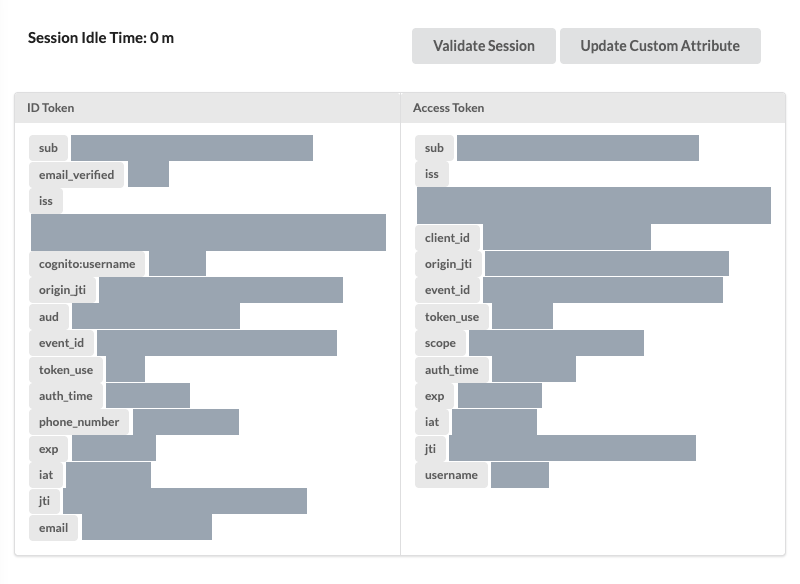
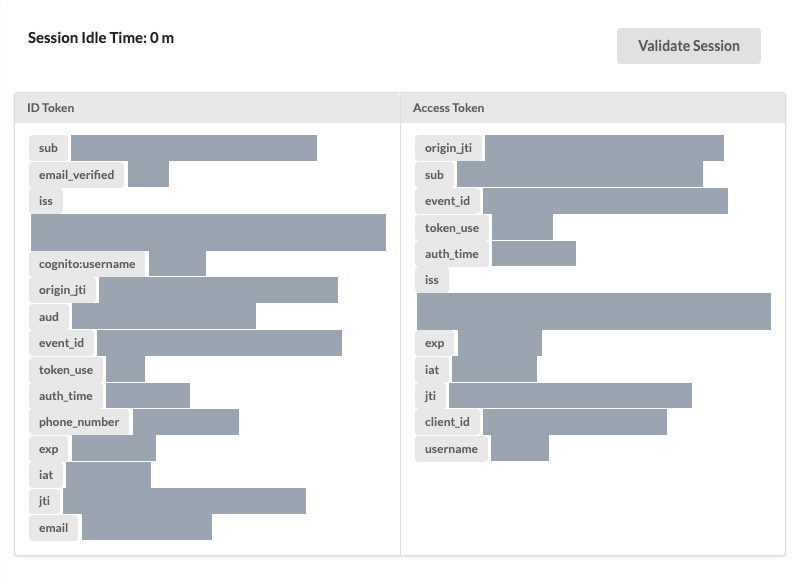
Retook the welcome screenshot, added the authenticator setup screenshot and updated the blog posts note

diff --git a/README.md b/README.md
@@ -11,7 +11,7 @@
 > - **Other fixes:** the respond-to-challenge function now waits for the access token signature check and for the session update to be saved. Debug logs redact AWS credentials and tokens. The Lambda role can access only this solution's DynamoDB tables. The authorizer denies requests it can't evaluate, and an API's `STEP_UP_DENY` setting now applies even when the caller has completed step-up.
 > - **Platform:** the Lambda functions run on Node.js 24, the deployment uses AWS CDK v2, and the web app uses Amplify JS v6.
 > - **If you deployed an earlier version with `NODE_ENV=development`,** its Lambda log groups may contain the functions' temporary AWS credentials and users' tokens. Restrict access to those log groups or delete them.
-> - **Blog posts:** [Part 1](https://aws.amazon.com/blogs/security/implement-step-up-authentication-with-amazon-cognito-part-1-solution-overview/) and [Part 2](https://aws.amazon.com/blogs/security/implement-step-up-authentication-with-amazon-cognito-part-2-deploy-and-test-the-solution/) describe the original design. Where they differ from this README, this README and the code are current. In particular, the posts describe step-up as entering a one-time code, while this sample now requires a fresh re-authentication (password, then the MFA code) bound to a one-time challenge; the posts describe one-time codes sent by SMS and choosing an MFA method on a Setting page, while this sample now requires an authenticator app that each user sets up at first sign-in; and DynamoDB TTL now only removes old session rows, it doesn't end a step-up session.
+> - **Blog posts:** the published [Part 1](https://aws.amazon.com/blogs/security/implement-step-up-authentication-with-amazon-cognito-part-1-solution-overview/) and [Part 2](https://aws.amazon.com/blogs/security/implement-step-up-authentication-with-amazon-cognito-part-2-deploy-and-test-the-solution/) describe an earlier version of this solution. Updated versions of Part 1 and Part 2 are being prepared to match this sample. Until they are published, the code and this README are authoritative wherever they differ. The main changes the updated posts will reflect: step-up is now a fresh re-authentication (your password, then your authenticator code) bound to a one-time challenge, rather than entering a one-time code; multi-factor authentication is a TOTP authenticator app that each user sets up at first sign-in, rather than SMS one-time codes or choosing a method on a Setting page; browser access tokens can no longer manage MFA or profile attributes; and DynamoDB TTL only removes old session rows, it doesn't end a step-up session.
 
 This repository contains accompanying source code for the AWS Security Blog posts [Implement step-up authentication with Amazon Cognito, Part 1: Solution overview](https://aws.amazon.com/blogs/security/implement-step-up-authentication-with-amazon-cognito-part-1-solution-overview/) and [Part 2: Deploy and test the solution](https://aws.amazon.com/blogs/security/implement-step-up-authentication-with-amazon-cognito-part-2-deploy-and-test-the-solution/).
 
@@ -323,7 +323,11 @@ Register a new user.  The user pool requires an email address and a phone number
 
 ![](documentation/web-app-2.png)
 
-You are returned to the login screen.  Log in with the user you just registered.  Because the user pool requires MFA, the first sign-in asks you to set up an authenticator app: scan the QR code with the app, or enter the setup key shown under it, then enter the code the app shows and select Verify.  Cognito issues your tokens only after this step, and you reach the welcome screen.  Later sign-ins ask for your password and then the code from the authenticator app.  The web app has no page for changing or removing the authenticator; see [Security model and limitations](#security-model-and-limitations).
+You are returned to the login screen.  Log in with the user you just registered.  Because the user pool requires MFA, the first sign-in asks you to set up an authenticator app: scan the QR code with the app, or enter the setup key shown under it, then enter the code the app shows and select Verify.
+
+![](documentation/web-app-8.png)
+
+Cognito issues your tokens only after this step, and you reach the welcome screen.  It lists the claims in your ID token and access token.  The access token has no `scope` claim, because the pre token generation trigger removes `aws.cognito.signin.user.admin`, which was the only scope on this sample's sign-in tokens.  Later sign-ins ask for your password and then the code from the authenticator app.  The web app has no page for changing or removing the authenticator; see [Security model and limitations](#security-model-and-limitations).
 
 ![](documentation/web-app-3.png)
 
